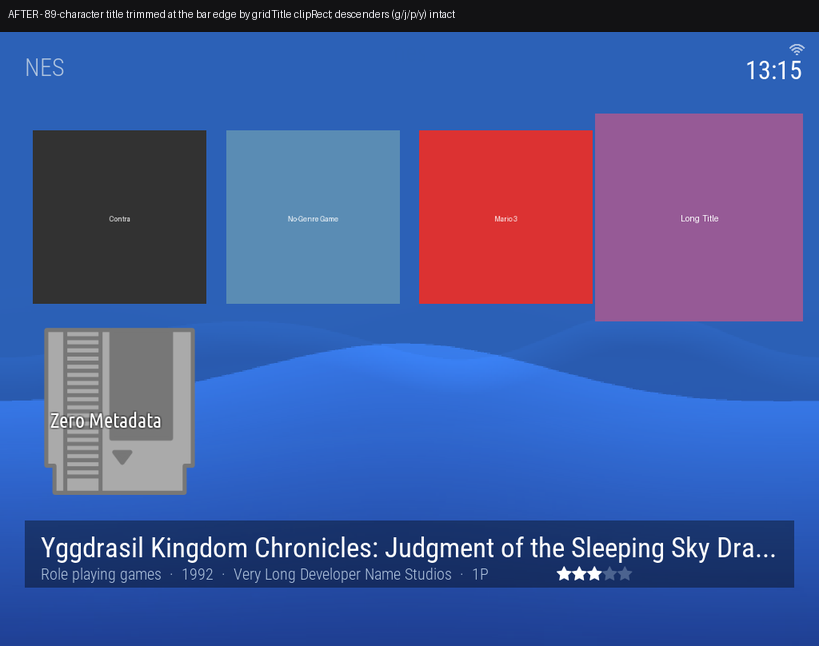
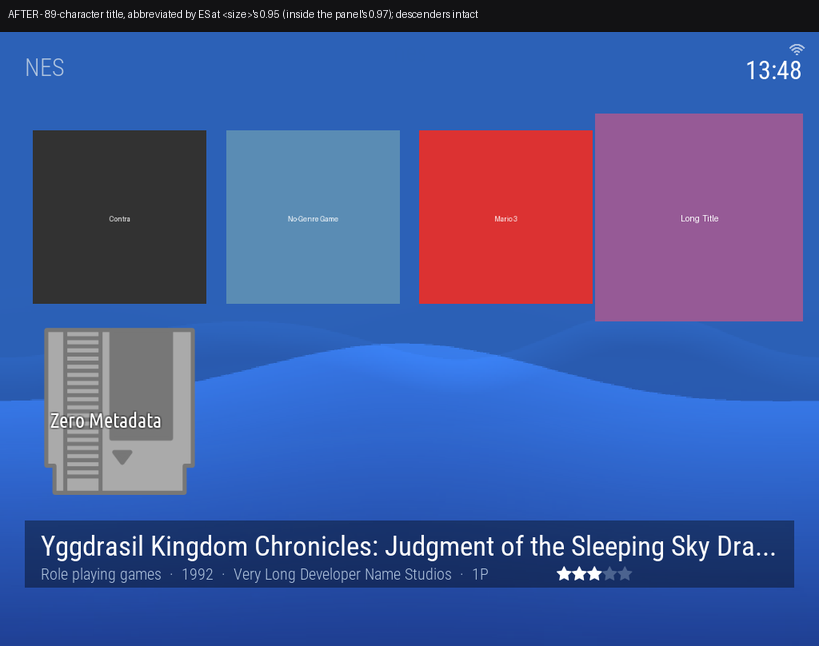
review: the info-bar clipRects were inert, and two figures were wrong (#43)
Four findings from the code review on PR #54, all verified before acting.

**The gridTitle clipRect this branch added is a no-op, and its stated
justification was false.** ES abbreviates single-line, non-scrolling
text to mSize.x with "..." (TextComponent.cpp:376-379), so `<size>` is
already the horizontal bound. Measured: renders with and without that
clipRect are pixel-identical over the info-bar band; removing v0.12's
gridMeta clipRect moves the band by at most one LSB. A deliberately
tiny clipRect does crop, so the property works - it simply can never
be the binding constraint here.

So the title never escaped the panel. What escaped was the panel: it
drew at half height, putting the title band's top at 0.808 above the
visible bar top at 0.8229. Removed all four clipRects from the strip
and documented the real mechanism, including that the abbreviation is
gated on mAutoScroll == NONE - a marquee would remove the bound, and
the guard now fails if any of these rows declares autoScroll without a
clip rect. The theme's "<size> alone does not clip" rule still holds
for cardDesc/listDesc, which are multi-line and overflow vertically.

The `<size>` added to the star pair stays: it changes no pixels today
(a five-glyph literal is ~0.09 in a 0.140 box) but it is the property
that would bound them, and nothing did before.

**gridTitleH went 0.055 -> 0.062 under cover of "promoted to
variables".** Unrequested: vertical alignment centres the text in its
[…]

Changed region(s): [[0.0611, 0.805, 0.9463, 0.8669], [0.1526, 0.0, 0.58, 0.031], [0.9463, 0.0929, 0.9768, 0.1238]]

diff --git a/docs/psp-xmb-style-guidelines.md b/docs/psp-xmb-style-guidelines.md
@@ -1334,11 +1334,21 @@ is animated — a still render understates the cue.
    `(tile + margin) − tile × (zoom + 1) / 2`, so the smallest usable
    margin is
    `(zoom − 1) × band / 2 / (n + (n − 1)(zoom − 1) / 2)`. v0.12's
-   `0.012/0.020` capped the zoom at 1.146 horizontally and 1.138
-   vertically — its 1.14 sat *on* the limit. The shipped
+   `0.012/0.020` capped the zoom at **1.109 horizontally** and 1.138
+   vertically, so its 1.14 was already *past* the horizontal one —
+   tile boxes overlapped by 3.6px at 1024 wide. The shipped
    `0.024/0.032` clears the minimum by about 3px at 1024×768; a
    threshold-exact margin leaves a sub-pixel gutter that anti-aliases
    into contact.
+
+   That v0.12 overlap was invisible, and the reason matters before any
+   retune: `maxSize` art is *narrower than its own cell* unless the art
+   matches the cell's aspect, so the drawn art had clearance the boxes
+   did not. Square-ish Game Boy covers in a 226×223 cell drew 222px
+   wide and cleared until zoom 1.146 — which is where that figure comes
+   from. Art that fills its cell in the binding axis is the worst case
+   and the only safe thing to design against, and it collides at 1.109.
+   The formula and the guard both use the box, never the art.
 
 Because every live value is a fraction of the same screen dimension,
 these thresholds are **identical at all five aspect ratios** — verified
@@ -1354,9 +1364,24 @@ it renders only its opaque middle band: the v0.12 info bar declared
 `0.795–0.905` and drew `0.8229–0.8776`, half height and vertically
 centred, which is why the metadata row (ending at `0.902`) sat outside
 the box. Its text bands are variables in `_inc/common.xml`
-(`gridInfoY/H`, `gridTitleY/H`, `gridMetaY/H`, `gridStarX/W`) and every
-one carries a `clipRect` built from its own pair, because `<size>` alone
-does not clip on this build.
+(`gridInfoY/H`, `gridTitleY/H`, `gridMetaY/H`, `gridStarX/W`), all at
+v0.12's values — promoting them must not move a pixel.
+
+**`<size>` is what bounds these rows, not a `clipRect`.** They are all
+single-line, non-scrolling text, and ES abbreviates that to `mSize.x`
+with `"..."` (TextComponent.cpp:376-379) — so a `clipRect` on any of
+them is inert. Verified: adding one to `gridTitle` changed zero pixels,
+and removing v0.12's `gridMeta` one changed the band by at most one LSB.
+Issue #43 asked for a `gridTitle` `clipRect` on the belief that a long
+title escaped the panel; it never did — `<size>` already stopped it at
+0.95, and what escaped was the panel, which was drawing at half height.
+The theme's "`<size>` alone does not clip" rule is about **multi-line**
+text: `cardDesc`/`listDesc` overflow *vertically*, which `<size>` does
+not bound, and that is what their clip rects are for.
+
+The abbreviation is gated on `mAutoScroll == NONE`, so adding a marquee
+to any of these rows removes their bound and a clip rect becomes the
+only one. `test-grid-selection.sh` enforces that pairing.
 
 **Requires ES's own Gamelist View Style = Automatic.** Three shared
 includes register a `detailed,gamecarousel` view unconditionally (or,

diff --git a/docs/screenshots/v0.13-grid-selection/README.md b/docs/screenshots/v0.13-grid-selection/README.md
@@ -7,7 +7,7 @@ release gate — the device renders via GLES2. **Not yet verified on hardware.**
 | File | What it shows |
 |---|---|
 | `before-after-4x3.png` | The `main` behaviour beside the fix, plus the fix with the cursor at a column edge and in the bottom row. 4:3, real scraped Game Boy art. |
-| `long-title-4x3.png` | The `nes/long-title` fixture (89 characters, with descenders) selected, proving `gridTitle`'s clipRect trims at the bar edge rather than running off screen. |
+| `long-title-4x3.png` | The `nes/long-title` fixture (89 characters, with descenders) selected. ES abbreviates it with `...` at `<size>`'s 0.95, inside the panel's 0.97 — no clip rect involved; see the note below. |
 | `aspect-ratios.png` | All five supported ratios, rendered against solid-colour calibration tiles so the drawn rects can be measured exactly. |
 
 ## Why the calibration tiles
@@ -26,6 +26,18 @@ rect measurable to the pixel, which is how these two facts were established:
 
 After the fix, at every ratio, the selected tile measures square at 1.20× and
 no neighbour is narrower than a tile far from the cursor.
+
+## What the long-title render actually shows
+
+Issue #43 asked for a `clipRect` on `gridTitle`, on the reading that a long
+title "runs to the screen edge and past the box". It does not, and never did:
+`<size>` bounds single-line non-scrolling text because ES abbreviates it to
+`mSize.x` with `...` (TextComponent.cpp:376-379). Renders with and without a
+`clipRect` on that element are **pixel-identical**, so none is shipped.
+
+What escaped the box was the box. The panel drew at half height, so the title's
+band (top 0.808) sat *above* the visible bar top at 0.8229 — which looks exactly
+like a title overflowing a panel that is actually the wrong size.
 
 The calibration library is throwaway — it is a copy of a scraped library with
 each thumbnail overwritten by a flat colour, not a committed fixture.
